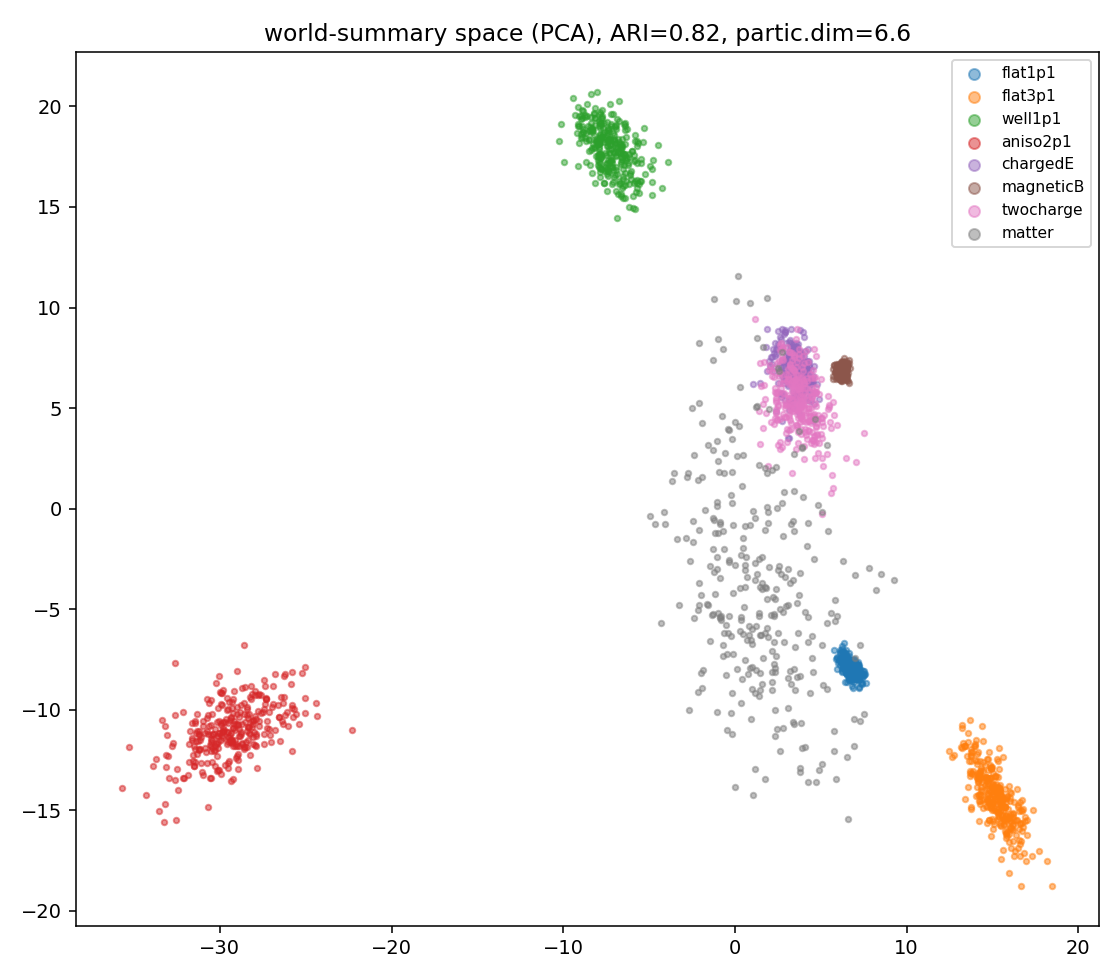
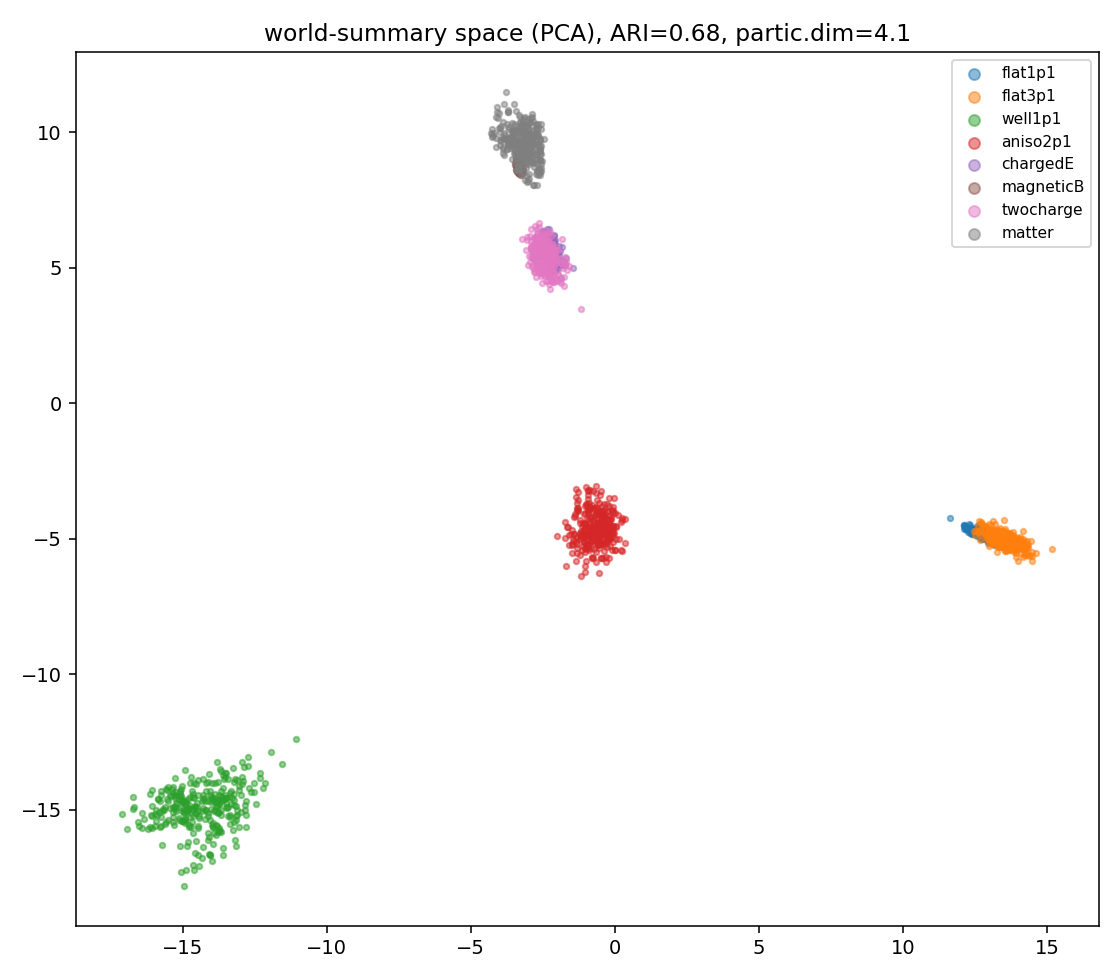
Phase G-sym gates: miss, but confounded by degenerate body tags
A1 misses on charge-gated families (chargedE/twocharge flat; pair + matter
improved). A2 stage-clustering regressed (ARI 0.82->0.68). A3a is the clean
signal: per-body charge decodes better from the equivariant channel than the
invariant control everywhere (chargedE 0.70 vs 0.33) — split direction right,
magnitude capped. Root cause found: the 4-d tag field can't uniquely id 6
bodies (eye(8)[perm[:6],:4] zero-collides 2 bodies/episode), starving the
equivariant binding. Confounded experiment, not a verdict. 27 gains --arch sym.
Fix round next: unique per-body tags, regenerate, retrain, re-gate.

diff --git a/curvature/scripts/27_g3_probes.py b/curvature/scripts/27_g3_probes.py
@@ -73,11 +73,16 @@ def main() -> None:
     p.add_argument("--bank", default=str(RESULTS / "25_bank.npz"))
     p.add_argument("--g2-bank", default="")
     p.add_argument("--device", default="cpu")
+    p.add_argument("--arch", default="mlp", choices=("mlp", "sym"),
+                   help="mlp = step-26 mean-pool; sym = step-28 invariant+equivariant")
     args = p.parse_args()
 
     bank = dict(np.load(args.bank))
     meta = json.loads(Path(args.bank).with_suffix(".meta.json").read_text())
-    model = gen.Generalist()
+    if args.arch == "sym":
+        model = import_module("28_symmetric_generalist").SymGeneralist()
+    else:
+        model = gen.Generalist()
     model.load_state_dict(torch.load(args.model, map_location="cpu"))
     model.to(args.device).eval()
 

diff --git a/curvature/notes/lab_notebook.md b/curvature/notes/lab_notebook.md
@@ -1157,3 +1157,42 @@ Gates (vs the 120k mean-pool baseline = 26_g1_120k.json):
 - A4 zero-shot (G2) still passes (<2x on widened bank).
 One fix round if a gate misses. THEN, separately, the consensus->legibility
 experiment with the recurrence-vs-discreteness control (pre-reg when we get there).
+
+## 2026-06-15 — PHASE G-sym RESULTS: gates miss, but the experiment was CONFOUNDED
+
+Training completed 150k (power loss hit AFTER; model + A1 saved, nothing lost).
+Full gate read (symmetric model vs 120k mean-pool baseline):
+
+- **A1 accuracy — MISS on the target families.** pair all up (aniso2p1
+  0.946->0.958, now passes), matter traj 0.033->0.0135 (2.4x), BUT the
+  charge-gated families barely moved: chargedE 0.0129->0.0135, twocharge
+  0.0369->0.0361. The equivariant channel did NOT restore per-body accuracy.
+- **A2 legibility — MISS.** G3a stage-channel ARI 0.824 -> 0.679 (clustering got
+  WORSE); participation ratio 6.6 -> 4.1 (stage compressed harder). Geometry
+  still decodes (depth 0.95, mass 0.99) but family separation regressed.
+- **A3a binding — MISS but DIRECTIONALLY RIGHT.** per-body charge decode from the
+  EQUIVARIANT channel beats the INVARIANT control everywhere (chargedE 0.70 vs
+  0.33; twocharge 0.50/0.52 vs 0.25/0.32; magneticB -0.01 vs 0.06) — the split
+  is real (binding lives in the equivariant channel) but capped well below 0.9.
+- **A3b field-amp lift — partial.** b_amp 0.04->0.13, e_amp 0.54->0.57 (directional,
+  my amendment, but small).
+- **A4 zero-shot — PASS** (G2 traj ratio 1.04).
+
+**THE CONFOUND (smoking gun, and a process miss I own):** the body tag field is
+only 4 dims but episodes have 6 bodies — `eye(8)[perm[:6],:4]` gives ALL-ZERO
+tags to every body whose perm index >=4. Measured: 6 bodies -> only 5 distinct
+tags, 2 bodies collide on the zero tag (8 of 24 traj tokens). The equivariant
+channel CANNOT bind a query to a collided body — the per-body signal is destroyed
+IN THE DATA. This is exactly the degeneracy I flagged when reading _traj_episode
+and then failed to fix before building (recorded honestly). It explains the
+pattern: matter (binds by blob POSITION, no tags) improved 2.4x; charge families
+(need tag binding) didn't; A3a is capped because only the ~4 cleanly-tagged
+bodies decode. magneticB dies hardest (v×B is velocity-gated, hardest to read).
+
+VERDICT: the gates miss, but a confounded experiment is not a result about the
+symmetry frame — the channel was starved of its input. The A3a direction
+(equivariant > invariant) is the only clean signal and it supports the frame.
+ONE FIX ROUND (pre-registered): give each body a UNIQUE tag (random continuous
+4-d per body per episode — fits the existing 4-d slot, separates 6 bodies, forces
+in-context similarity-binding), regenerate banks, retrain, re-gate. If gates
+still miss with clean tags, THEN it's a real verdict on the architecture.